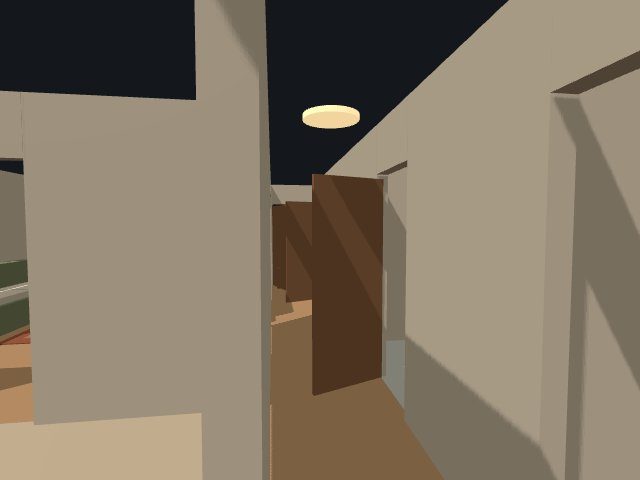
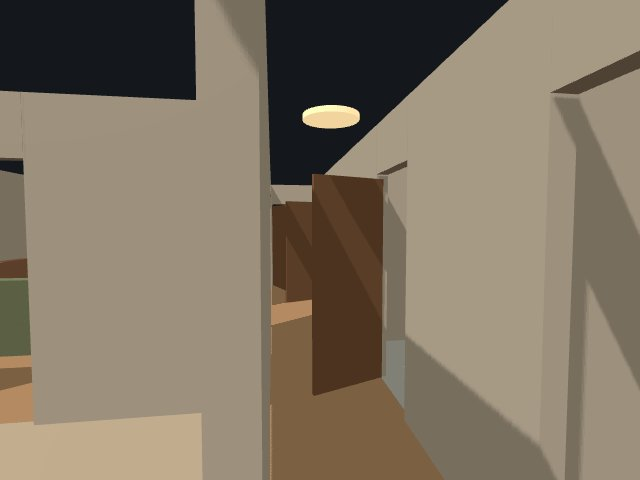
Keep doorways in the home clear of furniture
The TV stand stood in the opening between the living room and the hall,
so the S1 route walked straight through it, and the shoe rack stood in
front of the front door. The living room now faces a TV on the west
wall, the shoe rack sits against the hall's bedroom-side wall, and a
manifest test fails when any non-rug object stands within 0.8 m of a
door or opening.

Home version 2. Frames re-exported: only the living-room and hall
frames changed (S1 0-3 s and 26-28 s, S2 4.5-9 s); the stairs frames
used for SAM keep their hashes.

Changed region(s): [[0.0, 0.5312, 0.0625, 0.75], [0.4062, 0.625, 0.4688, 0.6875]]

diff --git a/backend/tests/test_home_manifest.py b/backend/tests/test_home_manifest.py
@@ -57,3 +57,23 @@ def test_selectable_objects_are_the_stairs_rug_and_chairs():
     assert sorted(o["id"] for o in MANIFEST["objects"] if o.get("selectable")) == [
         "chair_1", "chair_2", "chair_3", "chair_4", "living_rug",
     ]
+
+
+def test_no_furniture_stands_in_a_doorway():
+    """A walk-through clearance in front of and behind every door and opening."""
+    blocked = []
+    for wall in MANIFEST["walls"]:
+        (ax, az), (bx, bz) = wall["from"], wall["to"]
+        length = ((bx - ax) ** 2 + (bz - az) ** 2) ** 0.5
+        ux, uz = (bx - ax) / length, (bz - az) / length
+        for opening in wall.get("openings", []):
+            if opening["kind"] == "window":
+                continue
+            for o in MANIFEST["objects"]:
+                if o["kind"] in {"rug", "ceiling_lamp"}:
+                    continue
+                dx, dz = o["at"][0] - ax, o["at"][1] - az
+                along, across = dx * ux + dz * uz, abs(dx * -uz + dz * ux)
+                if abs(along - opening["at"]) < opening["width"] / 2 + 0.2 and across < 0.8:
+                    blocked.append(o["id"])
+    assert blocked == []
